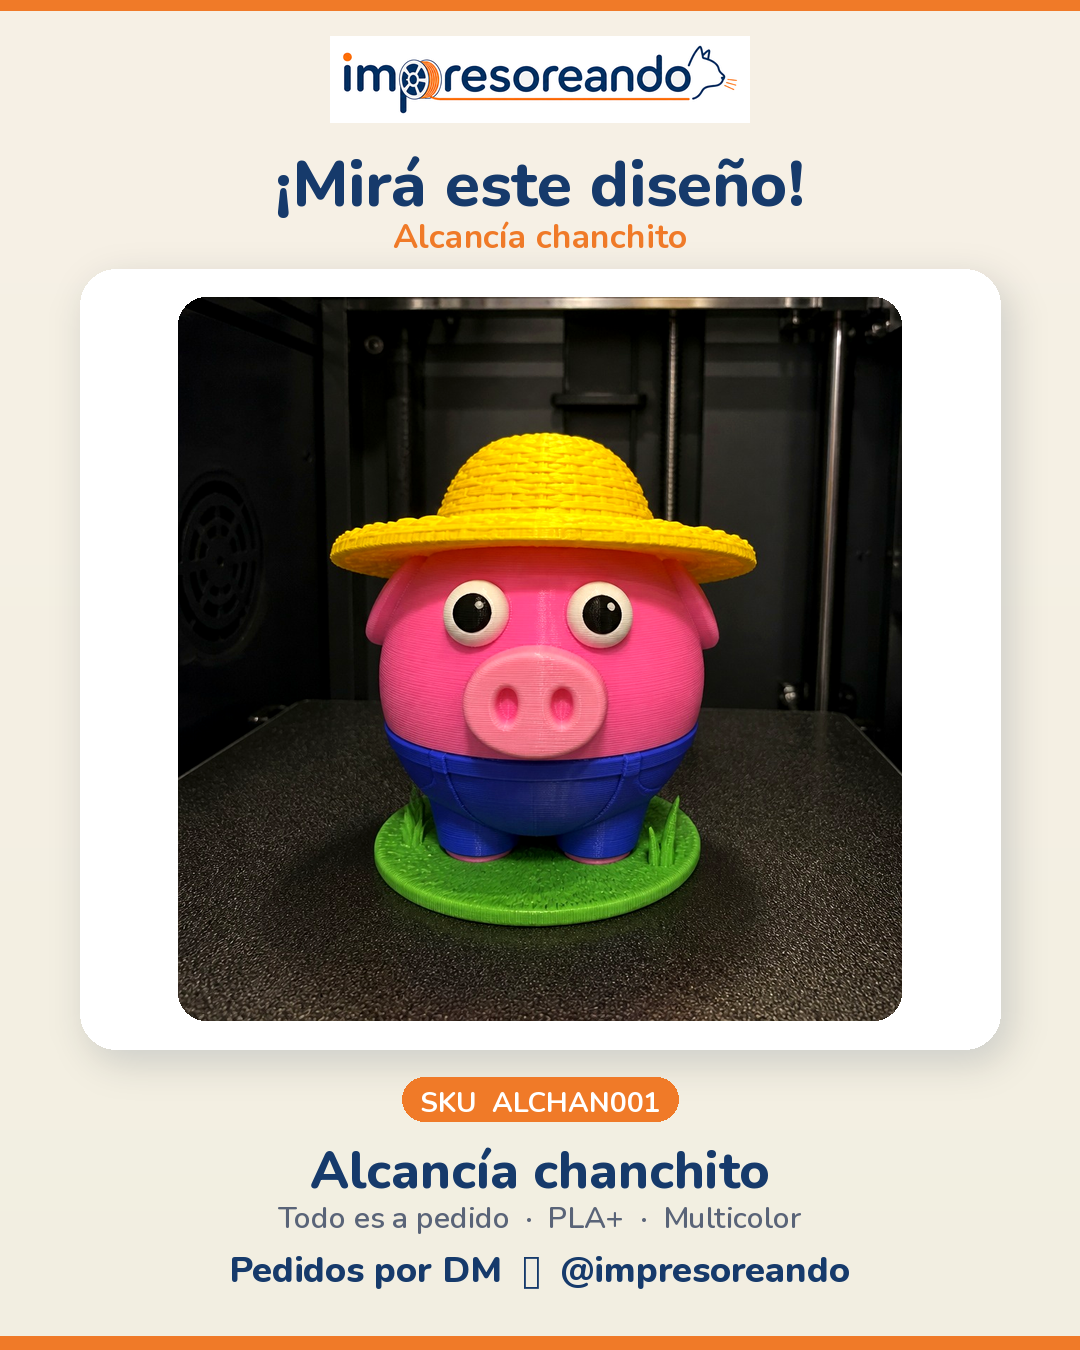
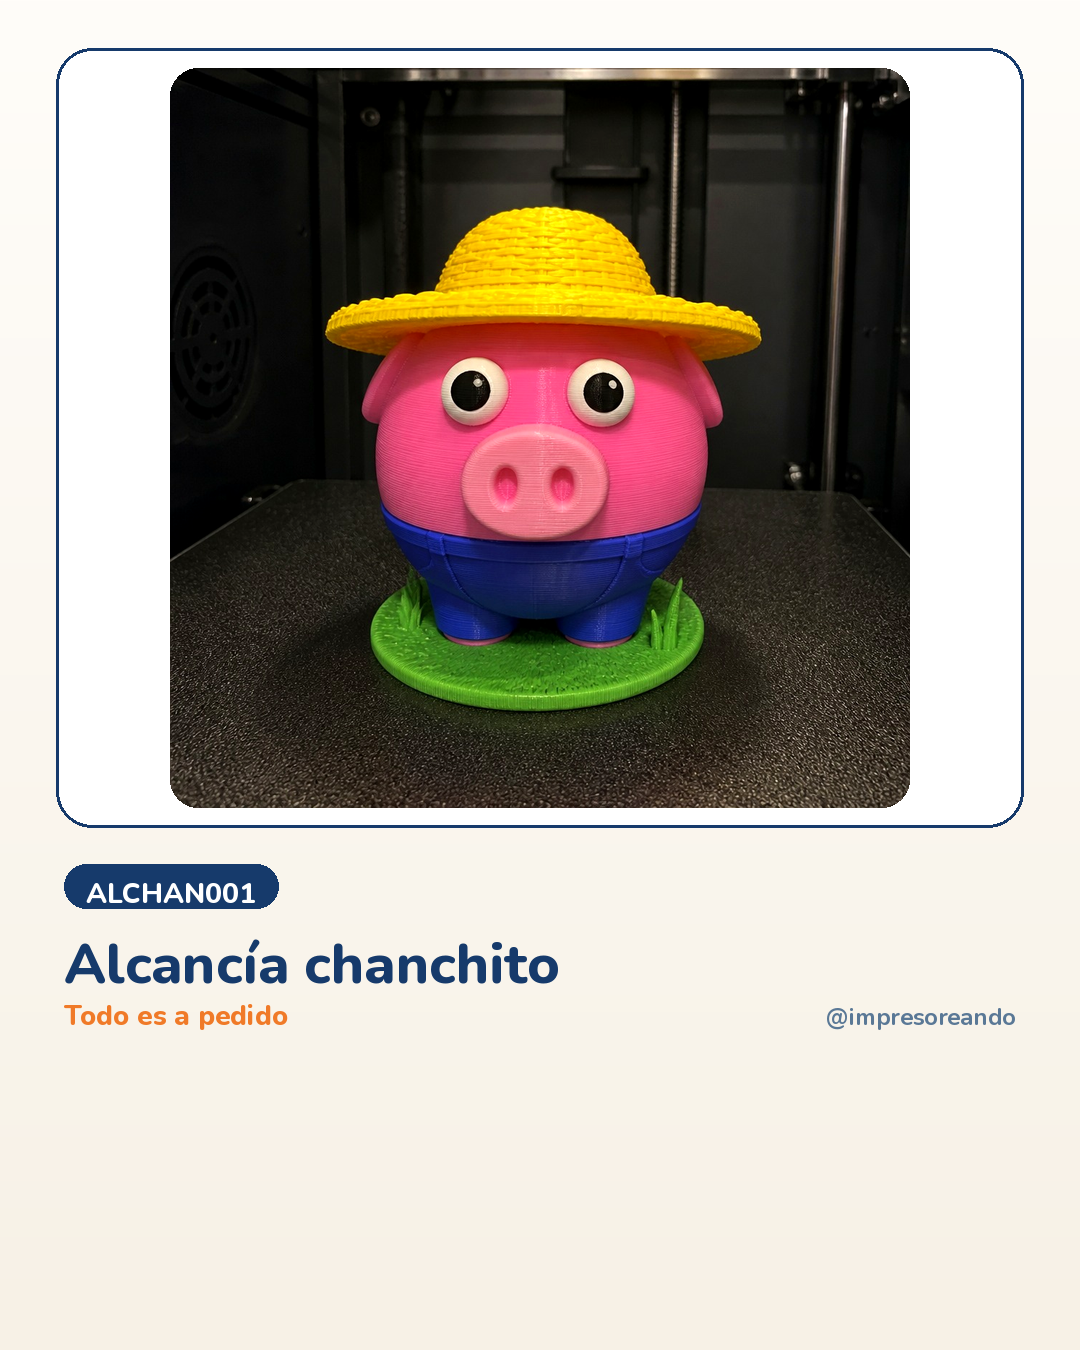
fix(imp): pieza chanchito con tipografía catálogo IG
Menos texto y mismo layout Nunito del catálogo:
SKU, nombre, Todo es a pedido, @impresoreando.

diff --git a/scripts/montar-pieza-alcancia-chanchito.js b/scripts/montar-pieza-alcancia-chanchito.js
@@ -1,18 +1,13 @@
 #!/usr/bin/env node
 /**
  * Monta pieza IG 1080×1350 Alcancía chanchito (ALCHAN001).
+ * Misma tipografía/layout del catálogo Impresoreando (Nunito 800, navy/naranja).
+ * Texto mínimo: SKU · nombre · Todo es a pedido · @impresoreando
  *
- * Tipografía: Nunito ExtraBold/Bold (misma familia del catálogo Impresoreando).
- * Colores: navy #163a6b · naranja #f07a28 · crema #f7f1e6
- *
- * Preferencia: foto real del producto
- *   index/clientes/impresoreando/piezas/foto-producto-chanchito.jpg
+ * Foto preferida: piezas/foto-producto-chanchito.jpg
  * Fallback: piezas/alcancia-chanchito-producto-ref.jpg
  *
  *   node scripts/montar-pieza-alcancia-chanchito.js
- *
- * Requiere: Python3 + Pillow (pip install pillow)
- * Fuente Nunito (opcional): /tmp/Nunito.ttf o fonts/Nunito.ttf
  */
 const { spawnSync } = require('child_process');
 const fs = require('fs');
@@ -21,7 +16,6 @@ const path = require('path');
 const ROOT = path.join(__dirname, '..');
 const PIEZAS = path.join(ROOT, 'index/clientes/impresoreando/piezas');
 const REDES = path.join(ROOT, 'index/clientes/impresoreando/redes');
-const LOGO = path.join(ROOT, 'index/clientes/impresoreando/identidad/logo-ima2.png');
 const OUT = path.join(PIEZAS, 'alcancia-chanchito-1080x1350.png');
 const OUT2 = path.join(REDES, 'alcancia-chanchito-1080x1350.png');
 
@@ -35,35 +29,35 @@ const foto =
   ].find((p) => fs.existsSync(p)) || null;
 
 if (!foto) {
-  console.error('Falta foto del producto. Poné la del chanchito en:');
-  console.error('  index/clientes/impresoreando/piezas/foto-producto-chanchito.jpg');
+  console.error('Falta foto. Poné: index/clientes/impresoreando/piezas/foto-producto-chanchito.jpg');
   process.exit(1);
 }
 
 const fontCandidates = [
   '/tmp/Nunito.ttf',
   path.join(ROOT, 'fonts/Nunito.ttf'),
-  path.join(ROOT, 'index/clientes/impresoreando/identidad/Nunito.ttf'),
 ].filter((p) => fs.existsSync(p));
 const NUNITO = fontCandidates[0] || '';
 
 const py = `
-from PIL import Image, ImageDraw, ImageFont, ImageFilter, ImageEnhance
+from PIL import Image, ImageDraw, ImageFont, ImageEnhance
 from pathlib import Path
 
+# Layout idéntico a catálogo slide--producto (catalogo.css)
 W, H = 1080, 1350
-NAVY = (22, 58, 107)
-ORANGE = (240, 122, 40)
-CREAM = (247, 241, 230)
+NAVY = (22, 58, 107)       # #163a6b
+ORANGE = (240, 122, 40)    # #f07a28
+CREAM_TOP = (255, 253, 249)
+CREAM_BOT = (247, 241, 230)
 WHITE = (255, 255, 255)
+HANDLE = (90, 120, 150)
 
-logo_path = r'''${LOGO.replace(/\\/g, '/')}'''
 prod_path = r'''${foto.replace(/\\/g, '/')}'''
 out1 = r'''${OUT.replace(/\\/g, '/')}'''
 out2 = r'''${OUT2.replace(/\\/g, '/')}'''
 nunito = r'''${NUNITO.replace(/\\/g, '/')}'''
 
-def font(size, weight='Bold'):
+def font(size, weight='ExtraBold'):
     if nunito and Path(nunito).exists():
         f = ImageFont.truetype(nunito, size)
         for w in (weight, weight.encode() if isinstance(weight, str) else weight):
@@ -73,118 +67,68 @@ def font(size, weight='Bold'):
             except Exception:
                 pass
         return f
-    bold = weight in ('Bold', 'ExtraBold', 'Black')
-    for p in (
-        '/usr/share/fonts/truetype/dejavu/DejaVuSans-Bold.ttf' if bold else '/usr/share/fonts/truetype/dejavu/DejaVuSans.ttf',
-        '/usr/share/fonts/truetype/dejavu/DejaVuSans.ttf',
-    ):
-        if Path(p).exists():
-            return ImageFont.truetype(p, size)
-    return ImageFont.load_default()
+    p = '/usr/share/fonts/truetype/dejavu/DejaVuSans-Bold.ttf'
+    return ImageFont.truetype(p, size) if Path(p).exists() else ImageFont.load_default()
 
-img = Image.new('RGB', (W, H), CREAM)
+img = Image.new('RGB', (W, H), CREAM_BOT)
 draw = ImageDraw.Draw(img)
 for y in range(H):
-    t = y / H
-    r = int(CREAM[0] * (1 - 0.04 * t) + 255 * 0.02 * t)
-    g = int(CREAM[1] * (1 - 0.03 * t) + 250 * 0.02 * t)
-    b = int(CREAM[2] * (1 - 0.02 * t))
-    draw.line([(0, y), (W, y)], fill=(r, g, b))
+    t = y / (H - 1)
+    draw.line([(0, y), (W, y)], fill=(
+        int(CREAM_TOP[0] * (1 - t) + CREAM_BOT[0] * t),
+        int(CREAM_TOP[1] * (1 - t) + CREAM_BOT[1] * t),
+        int(CREAM_TOP[2] * (1 - t) + CREAM_BOT[2] * t),
+    ))
 
-draw.rectangle([0, 0, W, 10], fill=ORANGE)
-
-logo = Image.open(logo_path).convert('RGBA')
-lw = 420
-lh = int(logo.height * (lw / logo.width))
-logo = logo.resize((lw, lh), Image.Resampling.LANCZOS)
-lx = (W - lw) // 2
-ly = 36
-img.paste(logo, (lx, ly), logo)
-
-f_head = font(64, 'ExtraBold')
-f_sub = font(34, 'Bold')
-f_sku = font(28, 'Bold')
-f_name = font(52, 'ExtraBold')
-f_meta = font(30, 'SemiBold')
-f_cta = font(36, 'ExtraBold')
-
-y = ly + lh + 18
-line1 = '¡Mirá este diseño!'
-bbox = draw.textbbox((0, 0), line1, font=f_head)
-draw.text(((W - (bbox[2] - bbox[0])) // 2, y), line1, font=f_head, fill=NAVY)
-
-y += 72
-line2 = 'Alcancía chanchito'
-bbox = draw.textbbox((0, 0), line2, font=f_sub)
-draw.text(((W - (bbox[2] - bbox[0])) // 2, y), line2, font=f_sub, fill=ORANGE)
+# Visual: margin 48/56, 780px alto, radius 36, border navy 12%
+mx, my = 56, 48
+vw, vh = W - mx * 2, 780
+# border
+draw.rounded_rectangle([mx, my, mx + vw - 1, my + vh - 1], radius=36, outline=(22, 58, 107, 30), width=3)
+# white fill under photo
+draw.rounded_rectangle([mx + 3, my + 3, mx + vw - 4, my + vh - 4], radius=33, fill=WHITE)
 
 prod = Image.open(prod_path).convert('RGB')
-prod = ImageEnhance.Color(prod).enhance(1.08)
-prod = ImageEnhance.Contrast(prod).enhance(1.05)
-
-panel_w, panel_h = 920, 780
-px = (W - panel_w) // 2
-py = y + 56
-
-shadow = Image.new('RGBA', (W, H), (0, 0, 0, 0))
-sd = ImageDraw.Draw(shadow)
-sd.rounded_rectangle([px + 8, py + 12, px + panel_w + 8, py + panel_h + 12], radius=36, fill=(22, 58, 107, 45))
-shadow = shadow.filter(ImageFilter.GaussianBlur(18))
-img = Image.alpha_composite(img.convert('RGBA'), shadow).convert('RGB')
-draw = ImageDraw.Draw(img)
-
-frame = Image.new('RGBA', (W, H), (0, 0, 0, 0))
-fd = ImageDraw.Draw(frame)
-fd.rounded_rectangle([px, py, px + panel_w, py + panel_h], radius=36, fill=(255, 255, 255, 255))
-img = Image.alpha_composite(img.convert('RGBA'), frame).convert('RGB')
-draw = ImageDraw.Draw(img)
-
-inner = 28
-avail_w = panel_w - inner * 2
-avail_h = panel_h - inner * 2
-cw, ch = prod.size
-side = min(cw, ch)
-left = (cw - side) // 2
-top = max(0, (ch - side) // 2 - 40)
-prod_sq = prod.crop((left, top, left + side, min(ch, top + side)))
-scale = min(avail_w / prod_sq.width, avail_h / prod_sq.height)
-nw = int(prod_sq.width * scale)
-nh = int(prod_sq.height * scale)
-prod_r = prod_sq.resize((nw, nh), Image.Resampling.LANCZOS)
-
+prod = ImageEnhance.Color(prod).enhance(1.06)
+prod = ImageEnhance.Contrast(prod).enhance(1.04)
+inner = 20
+aw, ah = vw - inner * 2, vh - inner * 2
+scale = min(aw / prod.width, ah / prod.height)
+nw, nh = int(prod.width * scale), int(prod.height * scale)
+prod_r = prod.resize((nw, nh), Image.Resampling.LANCZOS)
 mask = Image.new('L', (nw, nh), 0)
-md = ImageDraw.Draw(mask)
-md.rounded_rectangle([0, 0, nw - 1, nh - 1], radius=28, fill=255)
-paste_x = px + (panel_w - nw) // 2
-paste_y = py + (panel_h - nh) // 2
-img.paste(prod_r, (paste_x, paste_y), mask)
+ImageDraw.Draw(mask).rounded_rectangle([0, 0, nw - 1, nh - 1], radius=28, fill=255)
+px = mx + (vw - nw) // 2
+py = my + (vh - nh) // 2
+img.paste(prod_r, (px, py), mask)
 
 draw = ImageDraw.Draw(img)
-by = py + panel_h + 28
-pill = 'SKU  ALCHAN001'
-pb = draw.textbbox((0, 0), pill, font=f_sku)
-pw = pb[2] - pb[0] + 36
-ph = 44
-px0 = (W - pw) // 2
-draw.rounded_rectangle([px0, by, px0 + pw, by + ph], radius=22, fill=ORANGE)
-draw.text((px0 + 18, by + 6), pill, font=f_sku, fill=WHITE)
 
-by += 58
-name = 'Alcancía chanchito'
-bbox = draw.textbbox((0, 0), name, font=f_name)
-draw.text(((W - (bbox[2] - bbox[0])) // 2, by), name, font=f_name, fill=NAVY)
+# Meta: padding 36/64 — solo SKU + nombre + pedido + @
+f_sku = font(28, 'ExtraBold')
+f_nombre = font(56, 'ExtraBold')
+f_pedido = font(28, 'ExtraBold')
+f_ig = font(24, 'Bold')
 
-by += 62
-meta = 'Todo es a pedido  ·  PLA+  ·  Multicolor'
-bbox = draw.textbbox((0, 0), meta, font=f_meta)
-draw.text(((W - (bbox[2] - bbox[0])) // 2, by), meta, font=f_meta, fill=(90, 100, 120))
+meta_x = 64
+meta_y = my + vh + 36
 
-by += 48
-cta = 'Pedidos por DM  →  @impresoreando'
-bbox = draw.textbbox((0, 0), cta, font=f_cta)
-draw.text(((W - (bbox[2] - bbox[0])) // 2, by), cta, font=f_cta, fill=NAVY)
+sku = 'ALCHAN001'
+bb = draw.textbbox((0, 0), sku, font=f_sku)
+pw, ph = bb[2] - bb[0] + 44, bb[3] - bb[1] + 24
+draw.rounded_rectangle([meta_x, meta_y, meta_x + pw, meta_y + ph], radius=999, fill=NAVY)
+draw.text((meta_x + 22, meta_y + 10), sku, font=f_sku, fill=WHITE)
 
-draw.rectangle([0, H - 14, W, H], fill=ORANGE)
+nombre = 'Alcancía chanchito'
+ny = meta_y + ph + 18
+draw.text((meta_x, ny), nombre, font=f_nombre, fill=NAVY)
+
+foot_y = ny + 70
+draw.text((meta_x, foot_y), 'Todo es a pedido', font=f_pedido, fill=ORANGE)
+
+ig = '@impresoreando'
+ibb = draw.textbbox((0, 0), ig, font=f_ig)
+draw.text((W - 64 - (ibb[2] - ibb[0]), foot_y + 4), ig, font=f_ig, fill=HANDLE)
 
 Path(out1).parent.mkdir(parents=True, exist_ok=True)
 Path(out2).parent.mkdir(parents=True, exist_ok=True)
@@ -192,7 +136,6 @@ img.save(out1, 'PNG', optimize=True)
 img.save(out2, 'PNG', optimize=True)
 print('OK', out1, img.size)
 print('OK', out2)
-print('foto', prod_path)
 `;
 
 const r = spawnSync('python3', ['-c', py], { encoding: 'utf8' });
